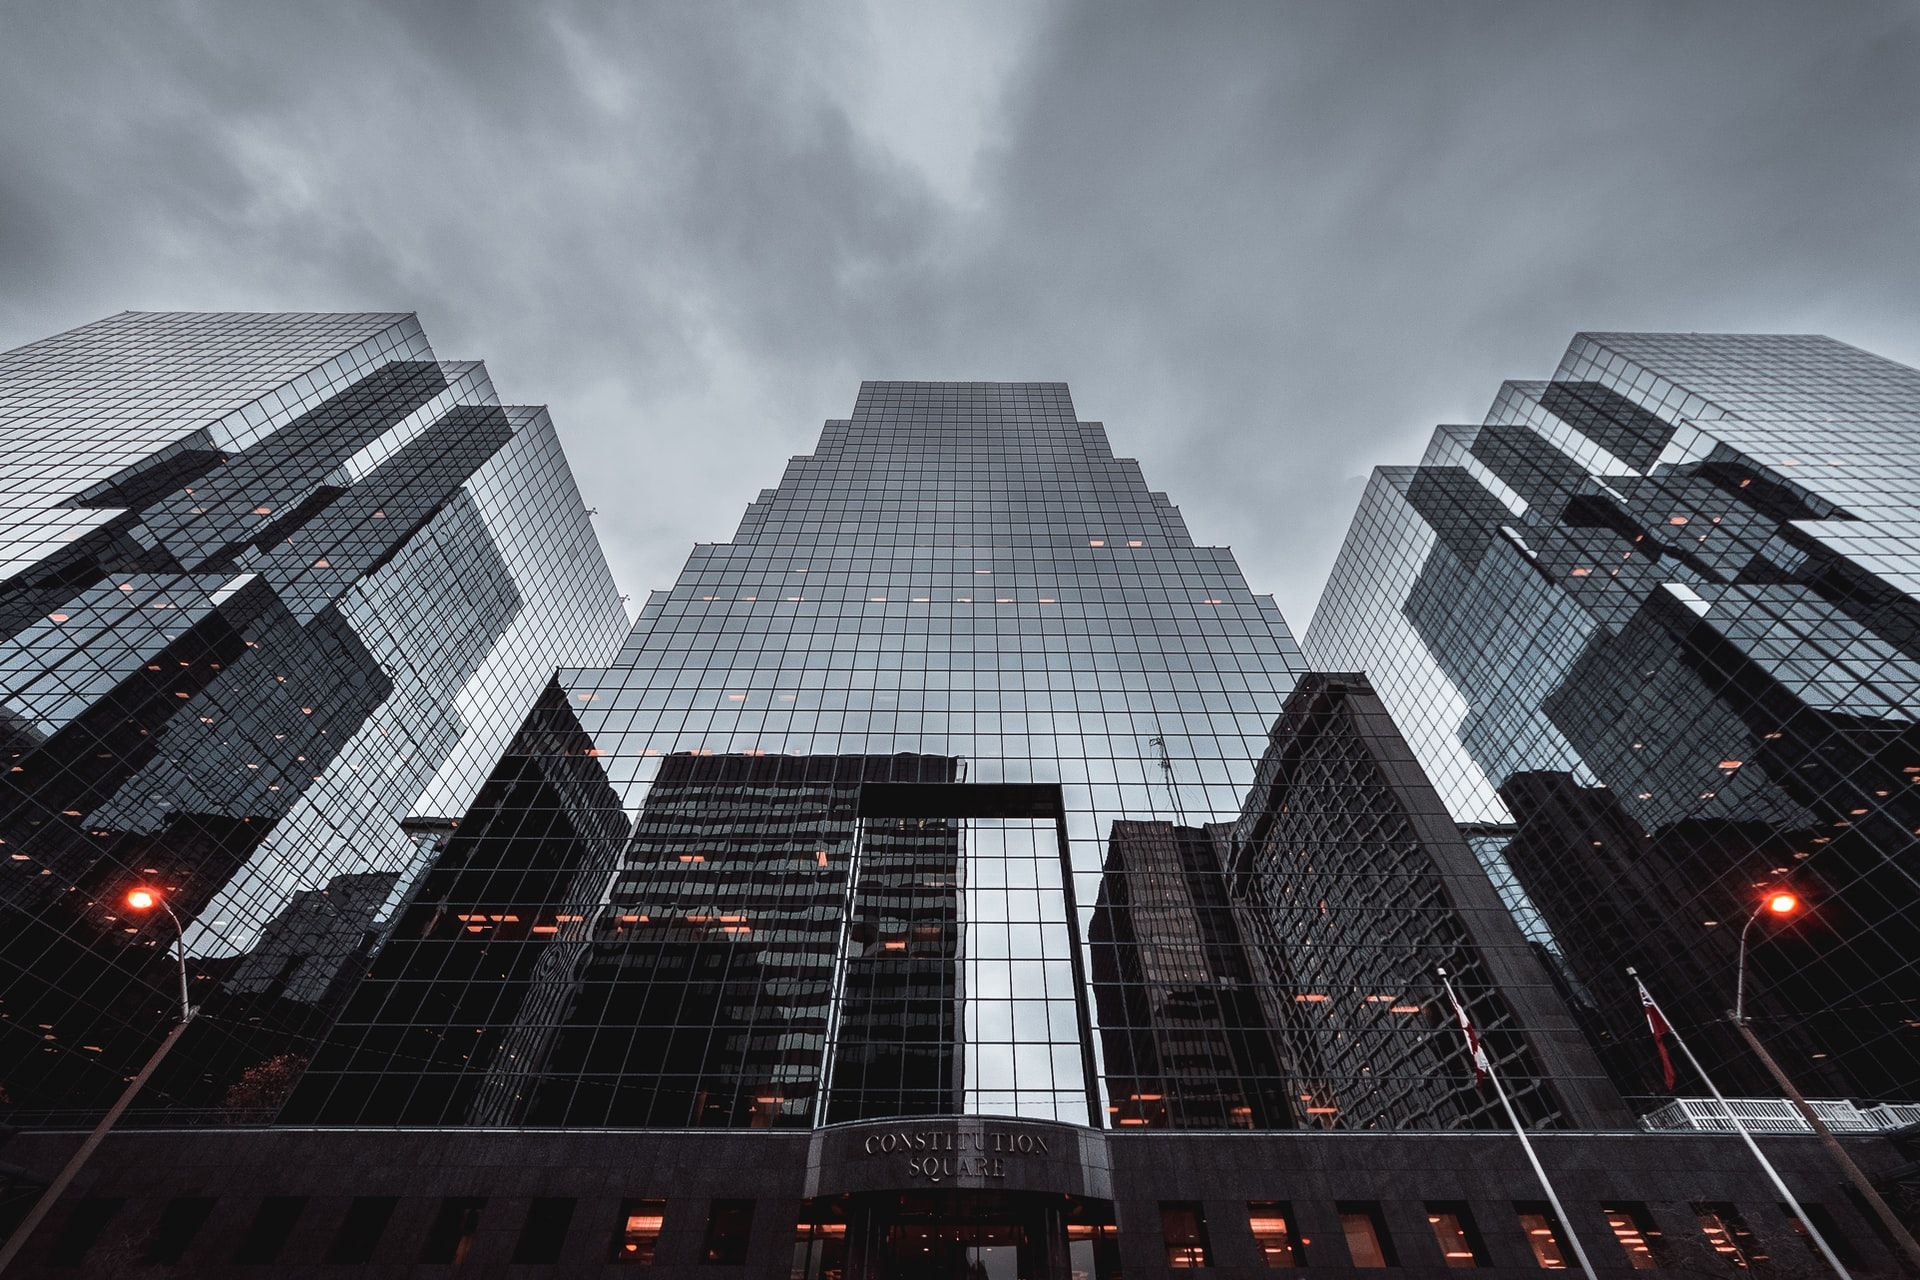
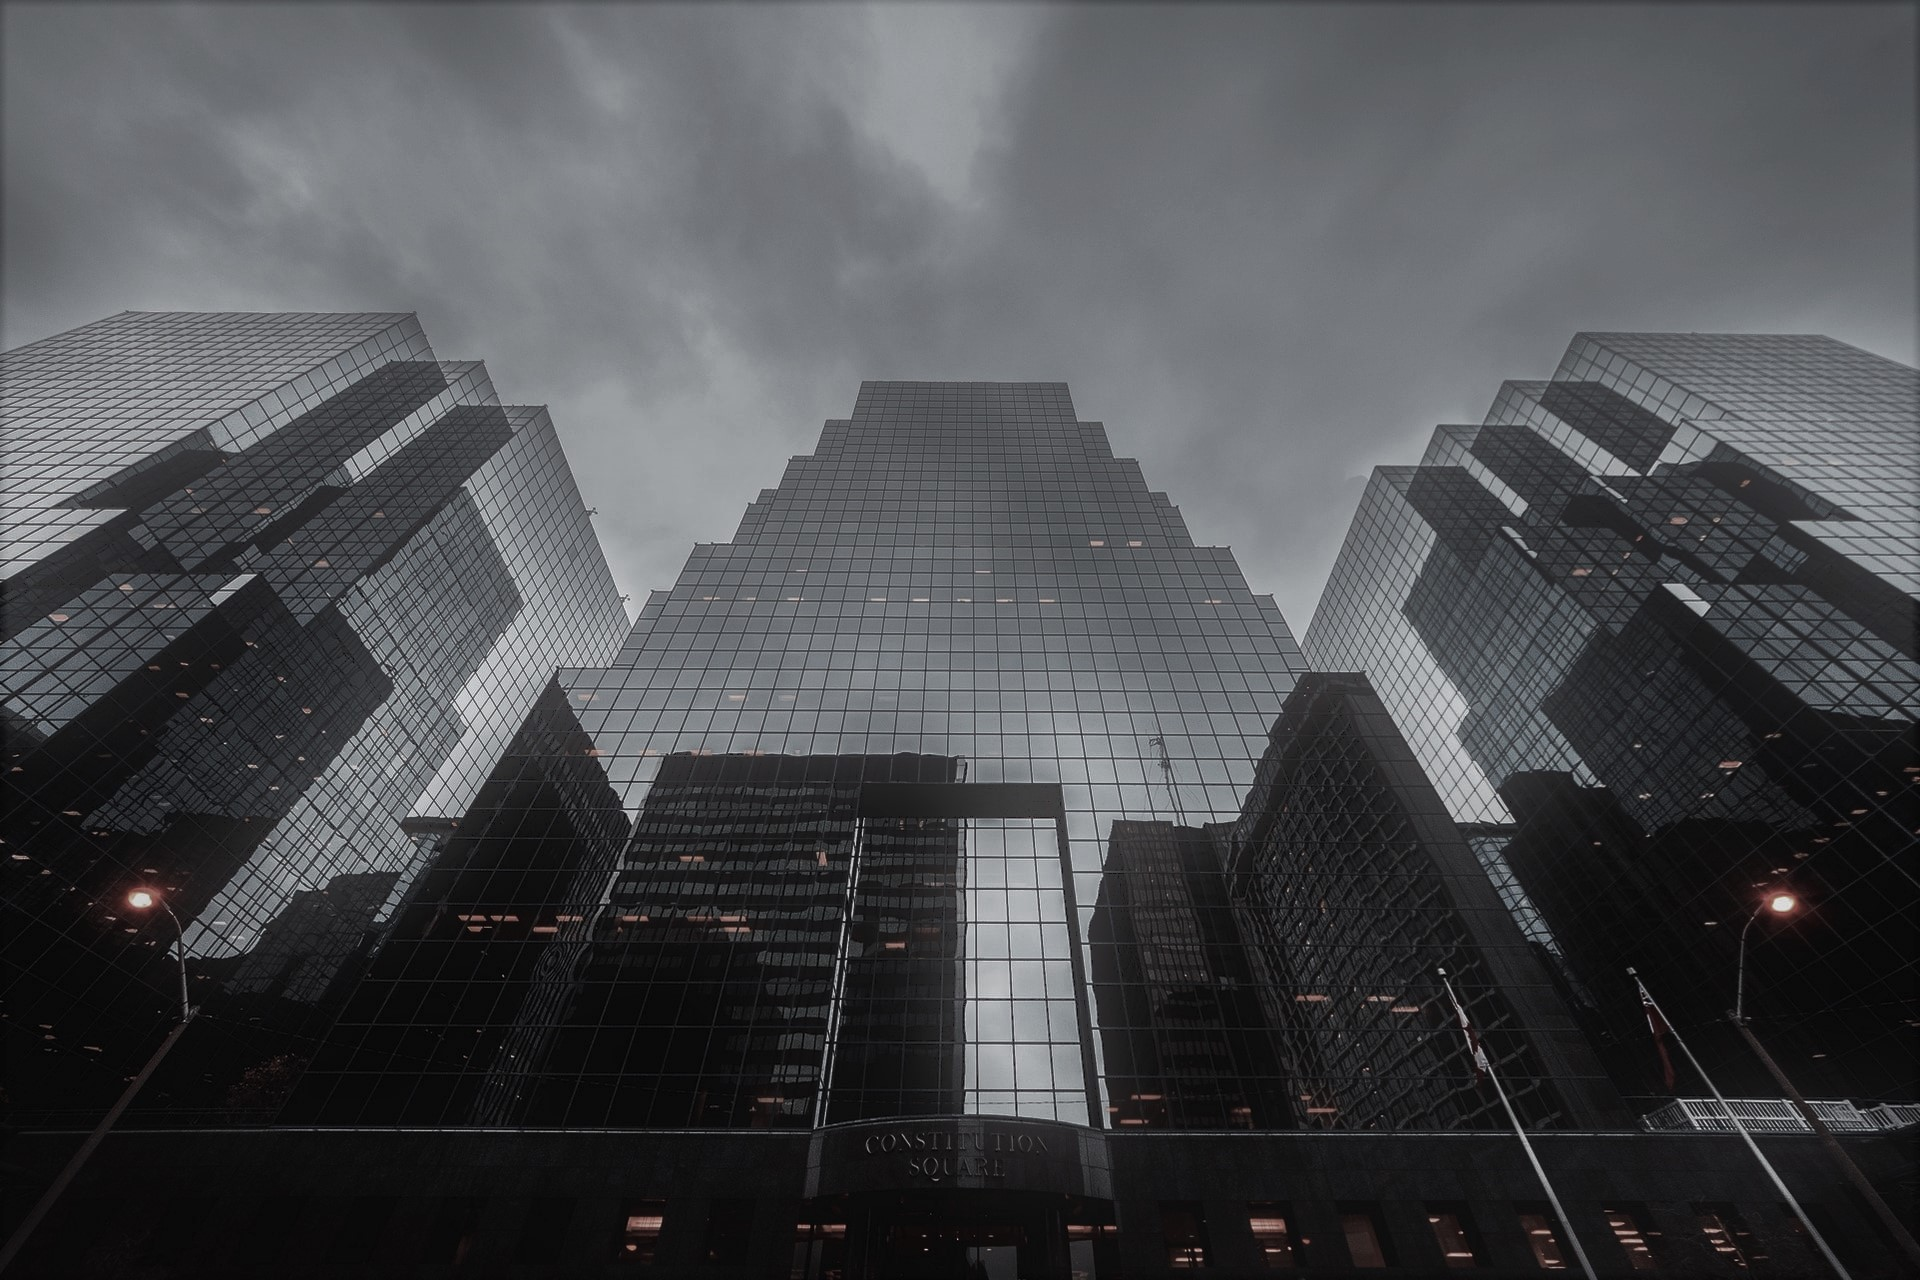
update info

diff --git a/src/components/About.js b/src/components/About.js
@@ -48,13 +48,13 @@ function About()
                                 <div className="col-lg-5 col-md-5">
                                     <label className="text-white">Email</label>
                                 </div>
-                                <span>quynhnhi0124@gmail.com</span>
+                                <span><a href="mailto:viethoanghy99@gmail.com">viethoanghy99@gmail.com</a></span>
                             </div>
                             <div className="row d-flex flex-wrap text-white-50">
                                 <div className="col-lg-5 col-md-5">
                                     <label className="text-white">Phone</label>
                                 </div>
-                                <span>0988183310</span>
+                                {/* <span><a href="tel:0988183310">0988183310</a></span> */}
                             </div>
                             <div className="row d-flex flex-wrap text-white-50">
                                 <div className="col-lg-5 col-md-5">

diff --git a/src/components/Contact.js b/src/components/Contact.js
@@ -26,14 +26,14 @@ function Contact()
                 <div className="row position-relative">
                     <div className="col-lg-3 col-md-3">
                         <div className="avatar position-absolute">
-                            <img align="right" src="./images/avatar.png" alt="avatar" />
+                            <img align="right" src="./images/avatar.png" alt="avatar" z-index="999" />
                         </div>
                     </div>                
                     <div className="col-lg-7 col-md-7">
                         <Header />
                     </div>      
                 </div>
-                <div className="d-flex p-3 contact-form" style={{backgroundColor: '#434a50'}}>
+                <div className="d-flex p-3 content contact-form">
                     <div className="col-lg-3 col-md-3"></div>
                     <div className="col-lg-7 col-md-7">
                         <h2 className="contact index-header text-white">Contact</h2>

diff --git a/src/index.js b/src/index.js
@@ -1,6 +1,6 @@
 import React from 'react';
 import { createRoot } from 'react-dom/client';
-import { BrowserRouter, Routes, Route } from "react-router-dom";
+import { Routes, Route, BrowserRouter as Router } from "react-router-dom";
 import About from './components/About';
 import Contact from './components/Contact';
 import Homepage from './components/Homepage';
@@ -9,13 +9,13 @@ function App()
 {
   return(
     <div className="wrapper">
-      <BrowserRouter>      
-        <Routes>
-          <Route path="/" element={<Homepage />} />
-          <Route path="/about" element={<About />} />
-          <Route path="/contact" element={<Contact />} />
-        </Routes>
-      </BrowserRouter>
+      <Router >   
+          <Routes>
+            <Route path="/" element={<Homepage />} />
+            <Route path="/about" element={<About />} />
+            <Route path="/contact" element={<Contact />} />
+          </Routes>
+      </Router >
       </div>
   );
 }

diff --git a/src/components/Info.js b/src/components/Info.js
@@ -10,7 +10,7 @@ const Info = () => {
                 <h2>Viet Hoang Nguyen</h2>
                 <h5>Developer at Maxflow R&amp;D</h5>
               </div>
-              <div className="description text-white-50">
+              <div className="description text-white">
                 <p>Lorem Ipsum is simply dummy text of the printing and typesetting industry. Lorem Ipsum has been the industry's standard dummy text ever since the 1500s, when an unknown printer took a galley of type and scrambled it to make a type specimen book. It has survived not only five centuries, but also the leap into electronic typesetting, remaining essentially unchanged. It was popularised in the 1960s with the release of Letraset sheets containing Lorem Ipsum passages, and more recently with desktop publishing software like Aldus PageMaker including versions of Lorem Ipsum.</p>
               </div>
         </React.Fragment>

diff --git a/public/index.html b/public/index.html
@@ -2,14 +2,13 @@
 <html lang="en">
   <head>
     <meta charset="utf-8" />
-    <link rel="icon" href="%PUBLIC_URL%/favicon.ico" />
     <meta name="viewport" content="width=device-width, initial-scale=1" />
     <meta name="theme-color" content="#000000" />
     <meta
       name="description"
       content="Web site created using create-react-app"
     />
-    <link rel="apple-touch-icon" href="%PUBLIC_URL%/logo192.png" />
+    <!-- <link rel="apple-touch-icon" href="%PUBLIC_URL%/logo192.png" /> -->
     <!--
       manifest.json provides metadata used when your web app is installed on a
       user's mobile device or desktop. See https://developers.google.com/web/fundamentals/web-app-manifest/

diff --git a/public/css/style.css b/public/css/style.css
@@ -1,5 +1,5 @@
 body {
-    background-image: url("../images/background-1.jpg"), linear-gradient(rgb(219, 166, 166), rgb(0, 0, 172));
+    background-image: url("../images/background-2.png"), linear-gradient(rgb(219, 166, 166), rgb(0, 0, 172));
     background-size: cover;
 }
 .wrapper {
@@ -119,4 +119,8 @@ nav span, .name, .get-name-badge, .contact, .user-logo, .wrapper-about label  {
     top: 25%;
     bottom: 25%;
     margin-left: -1rem;
+}
+
+.content {
+    background: rgba(67, 74, 80, 0.5);
 }

diff --git a/src/components/layouts/Index.js b/src/components/layouts/Index.js
@@ -16,7 +16,7 @@ function Index(props)
                 <div className="col-lg-7 col-md-7">
                     <Header />
                 </div>                
-                <div className="d-flex p-3" style={{backgroundColor: '#434a50'}}>
+                <div className="d-flex p-3 content">
                     <div className="col-lg-3 col-md-3"></div>
                     <div className="d-block col-lg-7 col-md-7">
                         {content}

diff --git a/src/components/Homepage.js b/src/components/Homepage.js
@@ -19,7 +19,7 @@ function Homepage()
           <div className="avatar col-lg-4 col-md-4 d-inline">
             <img className="position-absolute" src="./images/avatar.png" alt="avatar" />
           </div>
-          <div className="content col-lg-5 col-md-5 d-inline">
+          <div className="col-lg-5 col-md-5 d-inline">
             <Info />
             <div className="contact">
               <div className="row ml-0 mt-3">
